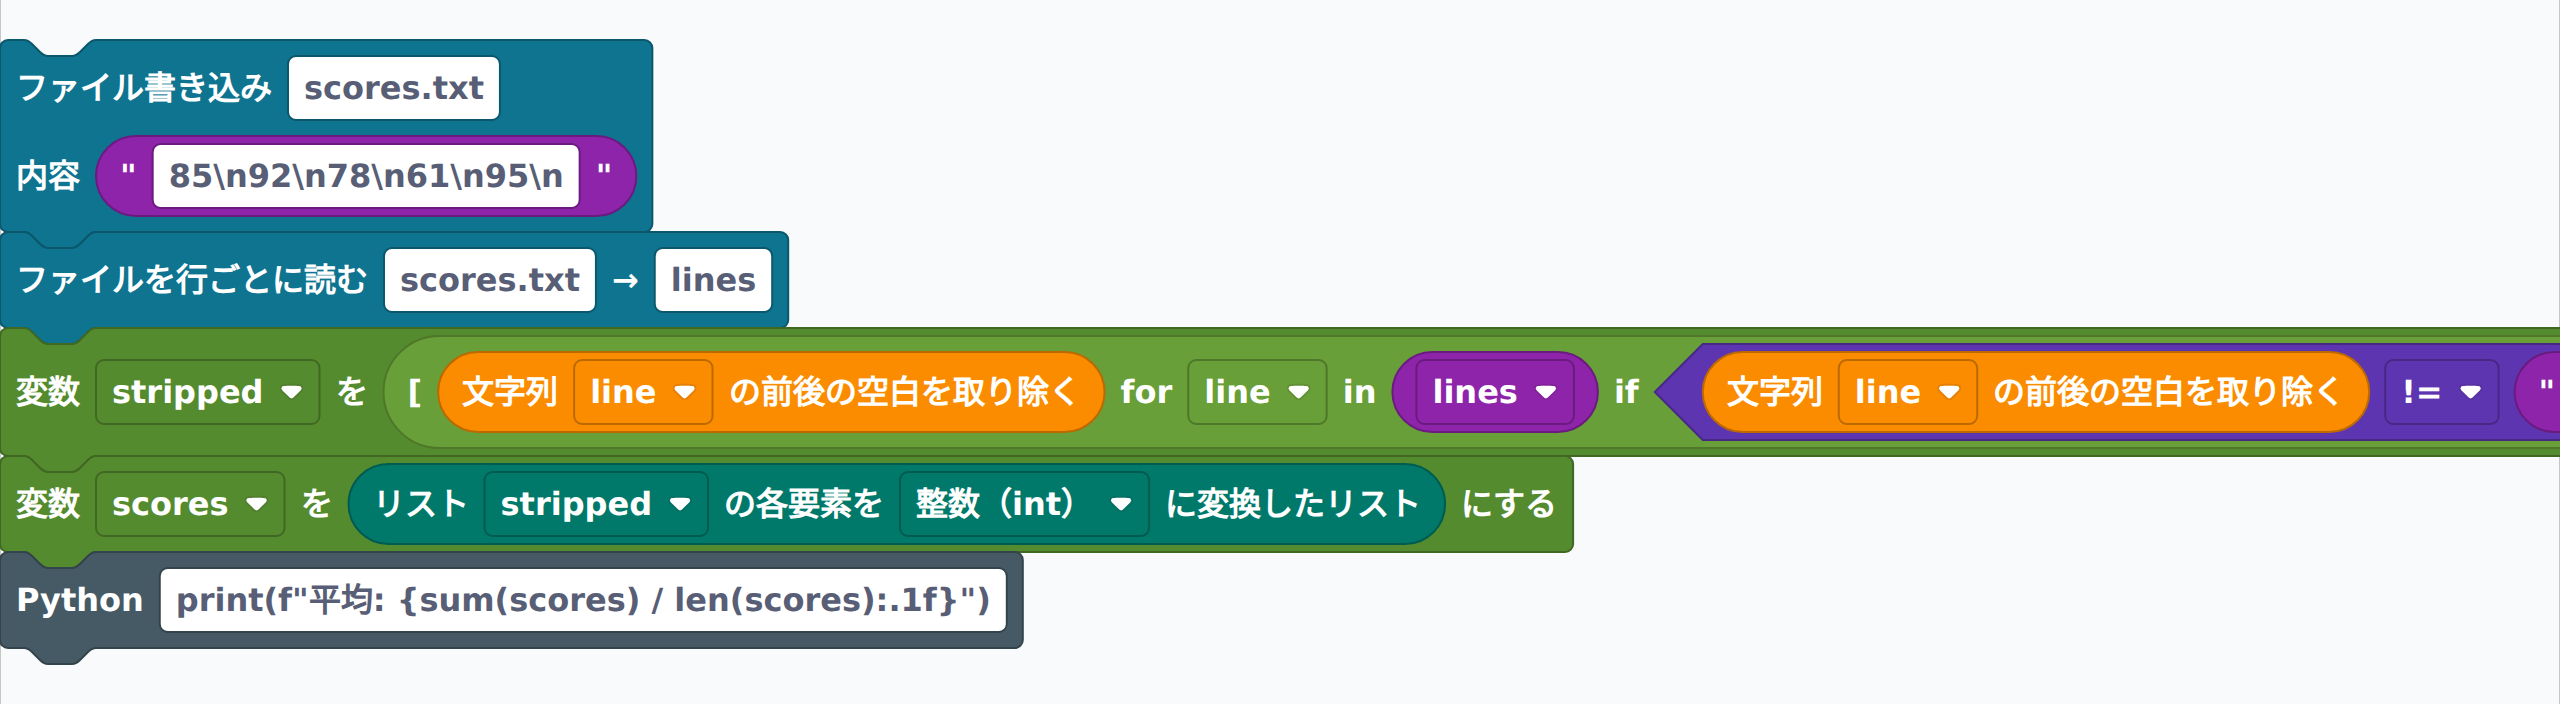
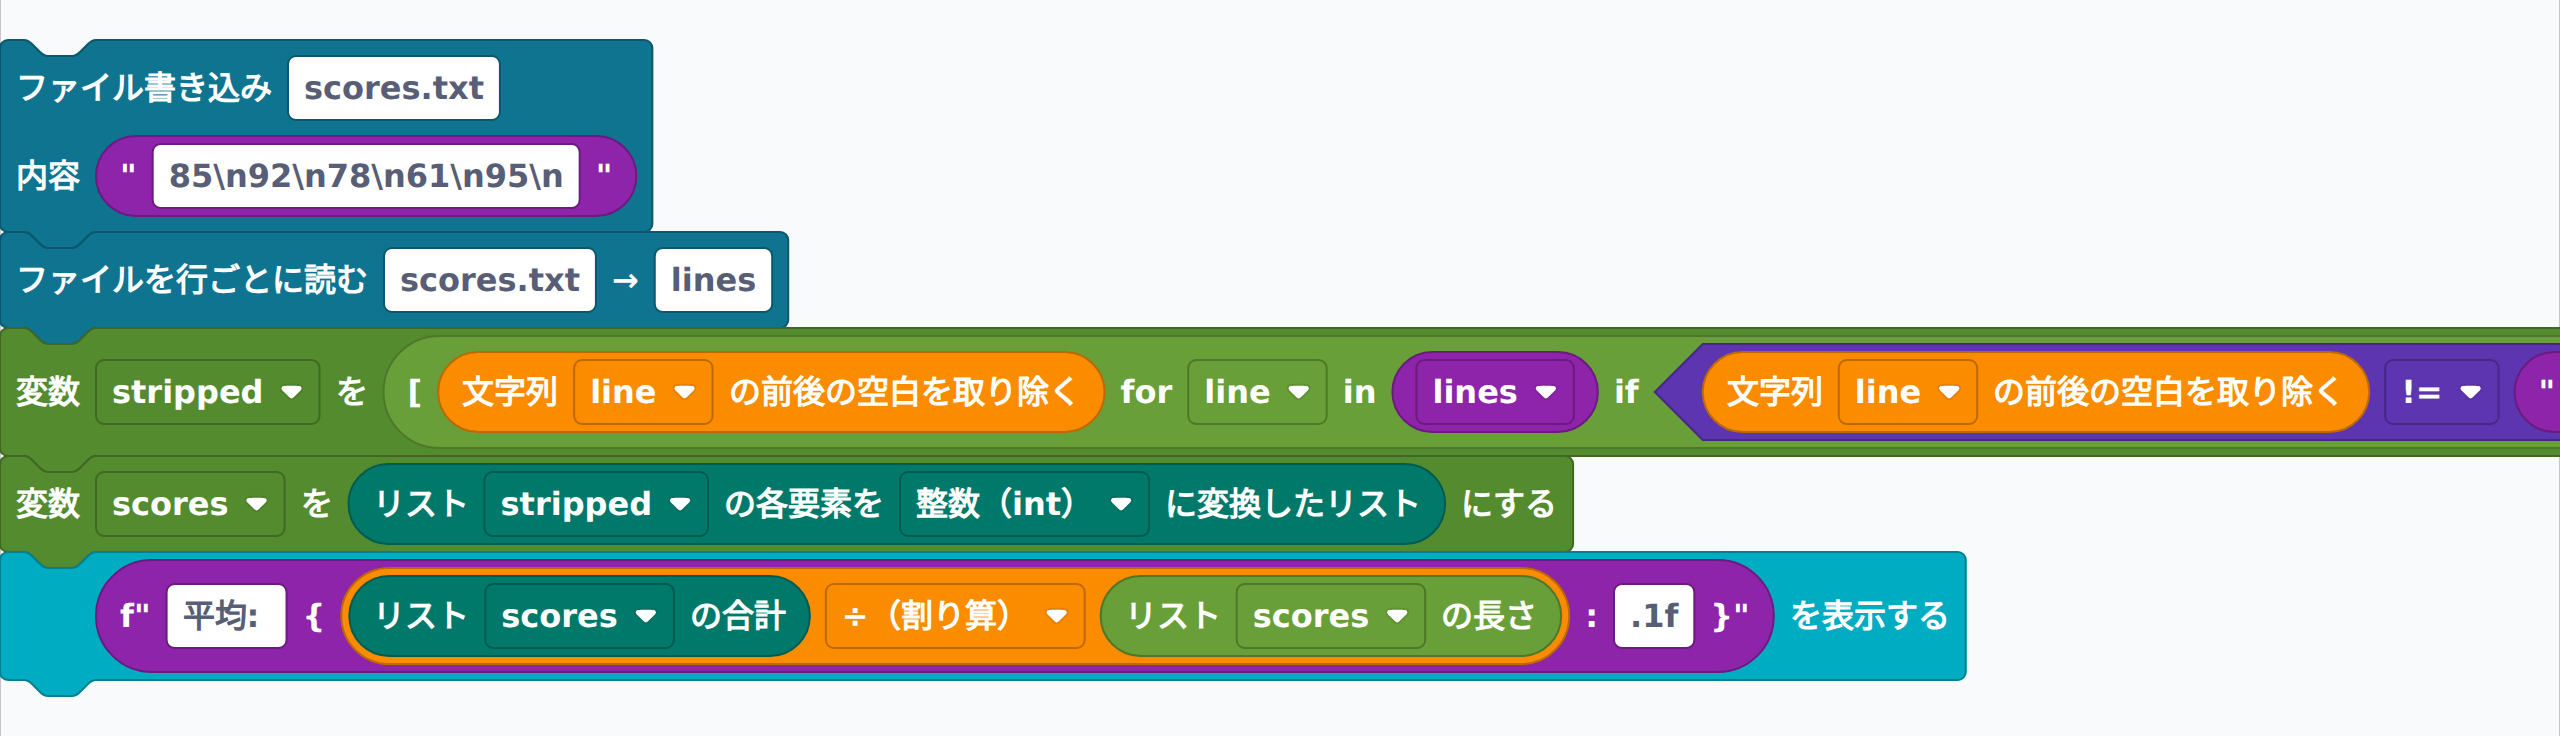
add py_fstring_fmt, py_for_dict_items_sorted blocks; fix 0-22 ans4/ans5 custom code
- python_intro.js: add py_fstring_fmt (f-string with format spec like :.1f), py_for_dict_items_sorted (for k,v in sorted(dict.items()))
- app.js: add valueToCode/stmtToCode/description entries for new blocks
- intro_0-22_ans4_score_avg.xml: replace py_custom_stmt with py_fstring_fmt + py_sum_call + py_list_len
- intro_0-22_ans5_word_count.xml: replace py_custom_stmt with py_for_dict_items_sorted + py_fstring2

diff --git a/js/app.js b/js/app.js
@@ -455,12 +455,14 @@ document.addEventListener('DOMContentLoaded', function() {
       case 'py_list_len':      return `リスト「${getVarName(block, 'LIST')}」の長さ`;
       case 'py_for_list':      return `リスト「${getVarName(block, 'LIST')}」を順に繰り返す`;
       case 'py_fstring':       return 'f文字列';
+      case 'py_fstring_fmt':   return 'f文字列（フォーマット付き）';
       case 'py_dict_new':      return '空の辞書 {}';
       case 'py_dict_literal':  return '辞書リテラル { キー: 値, ... }';
       case 'py_dict_set':      return `辞書「${getVarName(block, 'DICT')}」にキーと値をセット`;
       case 'py_dict_get':         return `辞書「${getVarName(block, 'DICT')}」からキーで取得`;
       case 'py_dict_get_default': return `辞書「${getVarName(block, 'DICT')}」からキーで取得（なければデフォルト値）`;
       case 'py_dict_keys':     return `辞書「${getVarName(block, 'DICT')}」のキー一覧`;
+      case 'py_for_dict_items_sorted': return `辞書「${getVarName(block, 'DICT')}」をソートして繰り返す`;
       case 'py_tuple_literal':  return 'タプル ( ... )';
       case 'py_set_literal':    return 'セット { ... }';
       case 'py_set_add':        return `セット「${getVarName(block, 'SET')}」に要素を追加`;
@@ -765,6 +767,13 @@ document.addEventListener('DOMContentLoaded', function() {
           return String(s).replace(/\\/g, '\\\\').replace(/'/g, "\\'");
         }
         return `f'${escSingleQuotedChunk(pre)}{${val}}${escSingleQuotedChunk(post)}'`;
+      }
+      case 'py_fstring_fmt': {
+        const fmtPre = block.getFieldValue('PRE') || '';
+        const fmtFmt = block.getFieldValue('FMT') || '';
+        const fmtVal = valueToCode(block, 'VAR', '""');
+        function escSQ(s) { return String(s).replace(/\\/g, '\\\\').replace(/'/g, "\\'"); }
+        return `f'${escSQ(fmtPre)}{${fmtVal}:${fmtFmt}}'`;
       }
       case 'py_tuple_literal': {
         const tupleItems = [];
@@ -1449,6 +1458,7 @@ document.addEventListener('DOMContentLoaded', function() {
       case 'py_round':
       case 'py_call_val':
       case 'py_fstring':
+      case 'py_fstring_fmt':
       case 'py_dict_new':
       case 'py_dict_literal':
       case 'py_dict_get':
@@ -1665,6 +1675,15 @@ document.addEventListener('DOMContentLoaded', function() {
         code = appendLocal(code, indent + `for ${itemVar} in ${listName}:\n`);
         const inner = statementToCode(block, 'DO', indent + '    ');
         code = appendChildBody(code, inner, indent + '    pass\n');
+        break;
+      }
+      case 'py_for_dict_items_sorted': {
+        const fdiDict   = getVarName(block, 'DICT');
+        const fdiKeyVar = getVarName(block, 'KEY_VAR');
+        const fdiValVar = getVarName(block, 'VAL_VAR');
+        code = appendLocal(code, indent + `for ${fdiKeyVar}, ${fdiValVar} in sorted(${fdiDict}.items()):\n`);
+        const fdiInner = statementToCode(block, 'DO', indent + '    ');
+        code = appendChildBody(code, fdiInner, indent + '    pass\n');
         break;
       }
 

diff --git a/js/blocks/python_intro.js b/js/blocks/python_intro.js
@@ -741,6 +741,25 @@ Blockly.Blocks['py_fstring'] = {
   }
 };
 
+Blockly.Blocks['py_fstring_fmt'] = {
+  init: function() {
+    this.appendDummyInput()
+      .appendField('f"')
+      .appendField(new Blockly.FieldTextInput(''), 'PRE')
+      .appendField('{');
+    this.appendValueInput('VAR').setCheck(null);
+    this.appendDummyInput()
+      .appendField(':')
+      .appendField(new Blockly.FieldTextInput('.1f'), 'FMT')
+      .appendField('}"');
+    this.setInputsInline(true);
+    this.setOutput(true, null);
+    this.setColour(P.literals);
+    this.setTooltip('f文字列：式にフォーマット指定を付けて埋め込みます（例: f"平均: {val:.1f}"）');
+    this.setHelpUrl('');
+  }
+};
+
 // =====================================================
 // 辞書（dict）ブロック
 // =====================================================
@@ -804,6 +823,28 @@ Blockly.Blocks['py_dict_get_default'] = {
     this.setOutput(true, null);
     this.setColour(P.dict);
     this.setTooltip('辞書.get(キー, デフォルト値) を返します。キーがなければデフォルト値を返します。');
+  }
+};
+
+Blockly.Blocks['py_for_dict_items_sorted'] = {
+  init: function() {
+    this.appendDummyInput()
+      .appendField('辞書')
+      .appendField(new Blockly.FieldVariable('my_dict'), 'DICT')
+      .appendField('を');
+    this.appendDummyInput()
+      .appendField('ソートして')
+      .appendField(new Blockly.FieldVariable('key'), 'KEY_VAR')
+      .appendField(',')
+      .appendField(new Blockly.FieldVariable('value'), 'VAL_VAR')
+      .appendField('に取り出す');
+    this.appendStatementInput('DO').setCheck(null);
+    this.setInputsInline(false);
+    this.setPreviousStatement(true, null);
+    this.setNextStatement(true, null);
+    this.setColour(P.dict);
+    this.setTooltip('辞書のキーと値をソートして順に取り出します（for k, v in sorted(dict.items())）');
+    this.setHelpUrl('');
   }
 };
 
